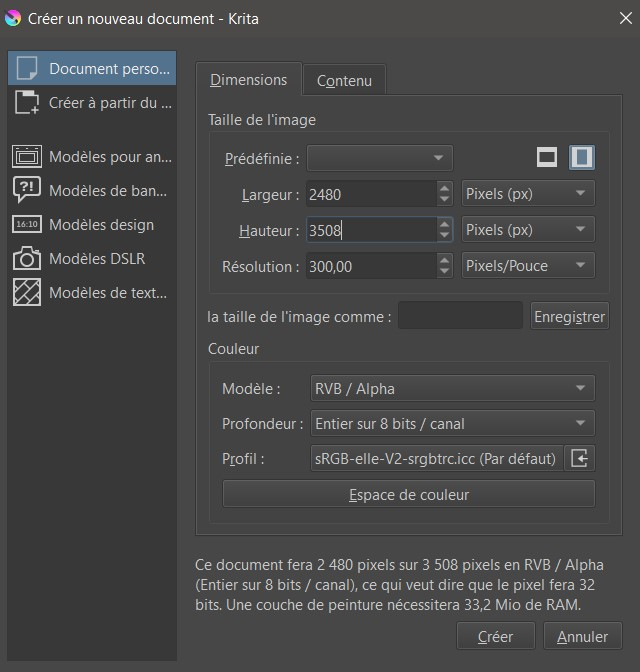
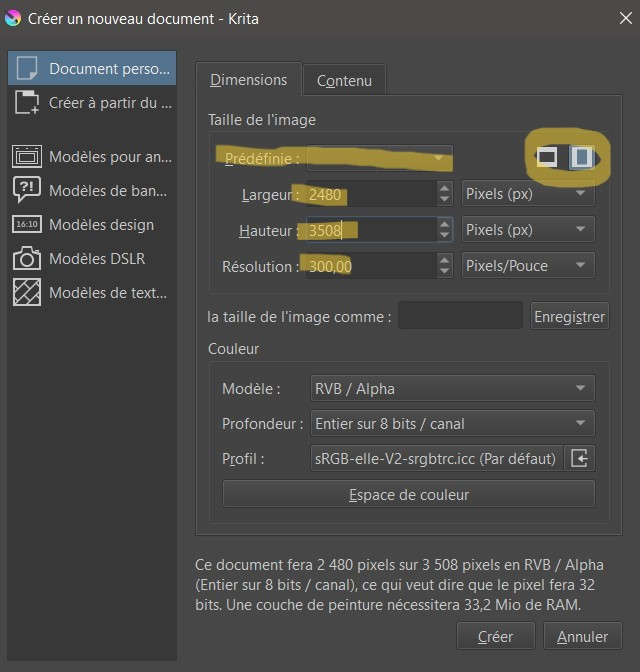
ajout et modif images

Changed region(s): [[0.3125, 0.2188, 0.7188, 0.4062], [0.8125, 0.1875, 0.9688, 0.2812]]

diff --git a/graphisme/coloAvecKrita.md b/graphisme/coloAvecKrita.md
@@ -73,8 +73,13 @@ Krita est un logiciel de graphisme très prisé par les dessinateurs pour trois 
 
 C'est la techique la plus simple et rapide, mais aussi celle qui vous donnera moins de libertés sur le choix de résolution et dimension de l'image. Ici les dimensions seront celles qui auront été héritées de celles du fichier de base, vous pourrez toujours les modifier par la suite mais cela sera plus dur que d'utiliser la technique 2 directement et préciser les dimensions que l'on veut vraiment. 
 
+
+![fichier et ouvrir](/img/nouveau-ofichier-kra-ouvrir-un-fichier.jpg)
+![fichier et ouvrir](/img/ouvrir-le-scan.jpg)
+
 Ouvrir Krita Aller sur Fichier > Ouvrir (raccourci : Ctrl + O)
 Sélectionner le dessin que nous avons scanné, l'ouvrir. 
+
 
 - Il va s'ouvrir en tant qu'Arrière plan, dans les calques (à droite sur la fenêtre). 
 - Double-cliquer sur son nom et le renommer 'scan' ou 'numérisation' 
@@ -95,7 +100,7 @@ Ouvrir Krita, puis aller dans Fichier > Nouveau (raccourci = Ctrl + N)
 
 Nous avons maintenant une nouvelle fenêtre proposant de nombreuses options. Avis aux débutants : pas de panique, beaucoup de ces options sont prédéfinies pour nous et vous n'aurez pas à les modifier pour le moment. Il vous suffit de : 
 
-1. Dans Dimensions, Taille de l'image, dans la section Prédeinie : cliquer le menu déroulant
+1. Dans Dimensions, Taille de l'image, dans la section Prédefinie : cliquer le menu déroulant
 2. Sélectionner A4 (300ppi si vous avez scanné avec 300ppi, ou 6000)
 3. Dans la section hauteur, définir au minimum 2480 Pixels 
 4. Dans la section largeur, définir au minimum 3508 Pixels
@@ -106,6 +111,8 @@ Note : Personnellement, quand je réalise des dessins amateurs et des commandes,
 Vous pouvez valider après ceci. 
 
 Maintenant que vous avez un nouveau fichier, sauvegardez-le une première fois : Fichier > Enregistrer (raccourci : Ctrl + S), choisissez l'emplacement et nommez-le. 
+
+![fichier et ouvrir](/img/dessin-importé.jpg)
 
 Ensuite, importez le dessin que vous venez de scanner dans ce fichier : ouvrir avec l'explorateur de fichier l'emplacement où vous l'avez enregistré lors de sa numérisation, et faites un glissé-déposé au dessus du fichier Krita que vous venez de créer. 
 Krita va vous demander de quelle manière vous souhaitez importer ce fichier, et vous devrez séletionner "Insérer en tant que nouveau calque."
